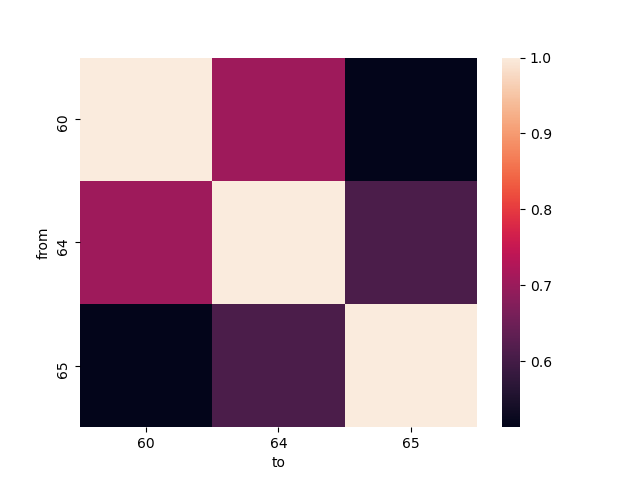
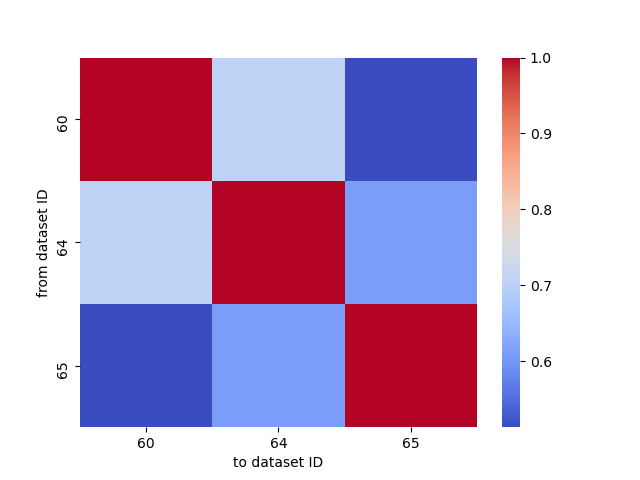
Naming col and row for heatmap, Heatmap colormap red-blue, dataset_data['keywords']

diff --git a/assets/INPUT_FOLDER/main.py b/assets/INPUT_FOLDER/main.py
@@ -274,7 +274,7 @@ def get_keywords(data_text):
     all_keyword_df = all_keyword_df.sort_values(
         "min_in_sample", ascending=False).head(top_words)
     # print(all_keyword_df.to_json())
-    return all_keyword_df.to_json()
+    return all_keyword_df['min_in_sample'].to_dict()  # .to_json()
 
     # keywords_json['vagus'] = 15
     # keywords_json['nerve'] = 12
@@ -341,12 +341,12 @@ def get_text_correlation(data_text):
     all_keyword_df = all_keyword_df.T
     all_keyword_df[all_keyword_df != 0] = 1
     df_len = len(all_keyword_df)
-    cor_matrix = {"from": [], "to": [], "value": []}
+    cor_matrix = {"from dataset ID": [], "to dataset ID": [], "value": []}
     for c1 in all_keyword_df.columns:
         for c2 in all_keyword_df.columns:
             if c1 == c2:
-                cor_matrix["from"].append(c1)
-                cor_matrix["to"].append(c1)
+                cor_matrix["from dataset ID"].append(c1)
+                cor_matrix["to dataset ID"].append(c1)
                 cor_matrix["value"].append(1)
             if c1 < c2:
                 # tdata = all_keyword_df[~(
@@ -355,15 +355,16 @@ def get_text_correlation(data_text):
 
                 value = len(
                     all_keyword_df[all_keyword_df[c1] == all_keyword_df[c2]])*1./df_len
-                cor_matrix["from"].append(c1)
-                cor_matrix["to"].append(c2)
-                cor_matrix["from"].append(c2)
-                cor_matrix["to"].append(c1)
+                cor_matrix["from dataset ID"].append(c1)
+                cor_matrix["to dataset ID"].append(c2)
+                cor_matrix["from dataset ID"].append(c2)
+                cor_matrix["to dataset ID"].append(c1)
                 cor_matrix["value"].append(value)
                 cor_matrix["value"].append(value)
     cor_matrix = pd.DataFrame(cor_matrix)
-    cor_matrix = cor_matrix.pivot(index="from", columns="to", values="value")
-    sns.heatmap(cor_matrix)
+    cor_matrix = cor_matrix.pivot(
+        index="from dataset ID", columns="to dataset ID", values="value")
+    sns.heatmap(cor_matrix, cmap='coolwarm')
     savefig(os.path.join(output_dir, "Correlation_heatmap.png"))
 
     return cor_matrix.to_json()
